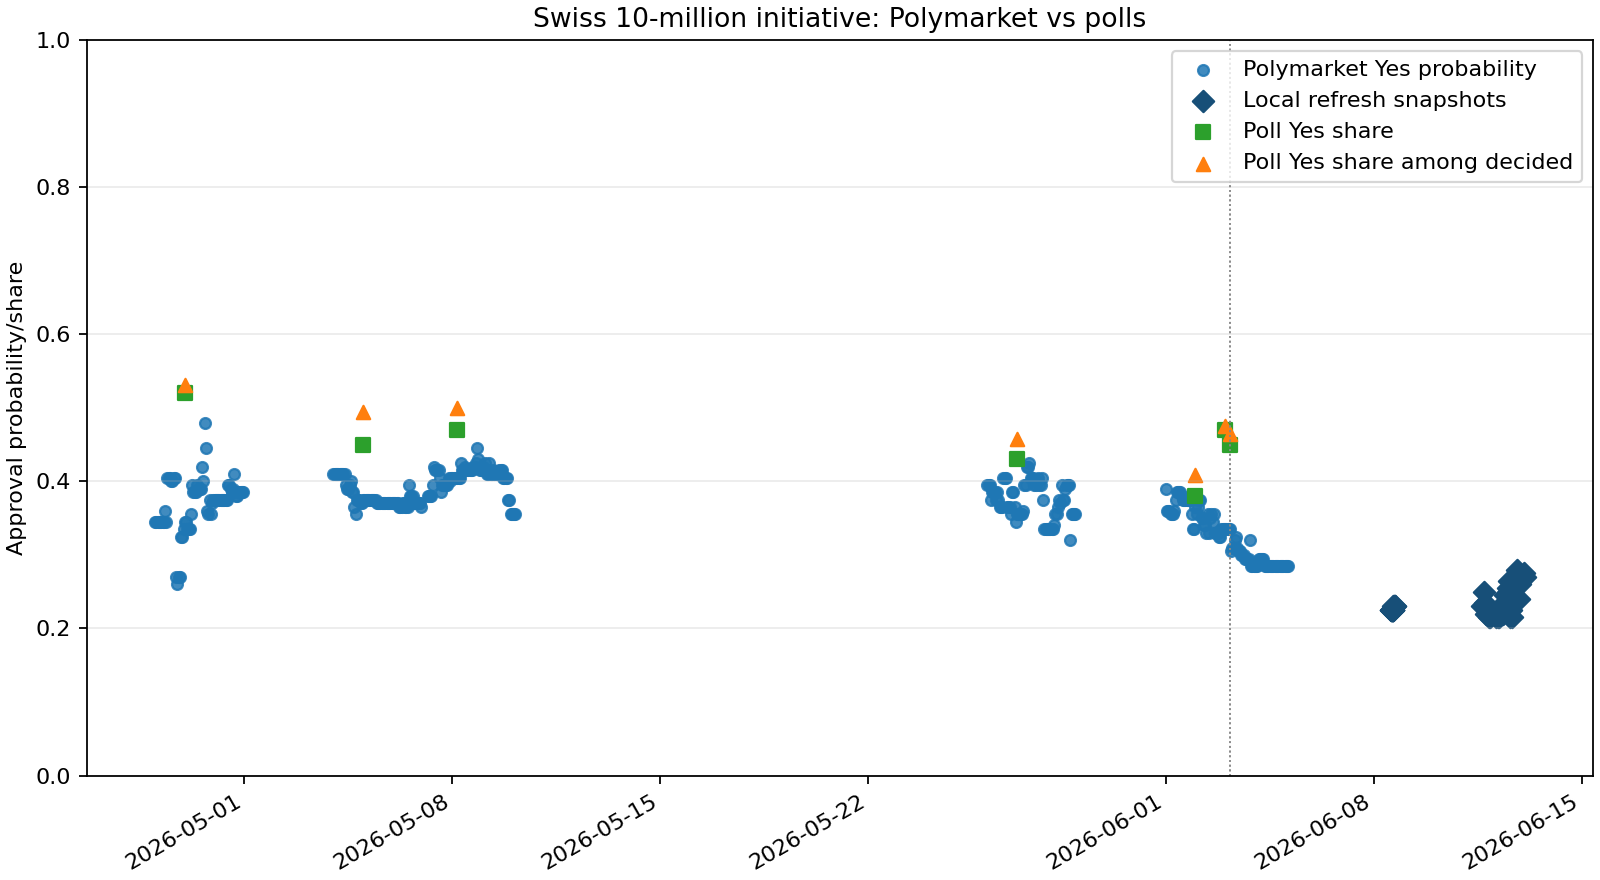
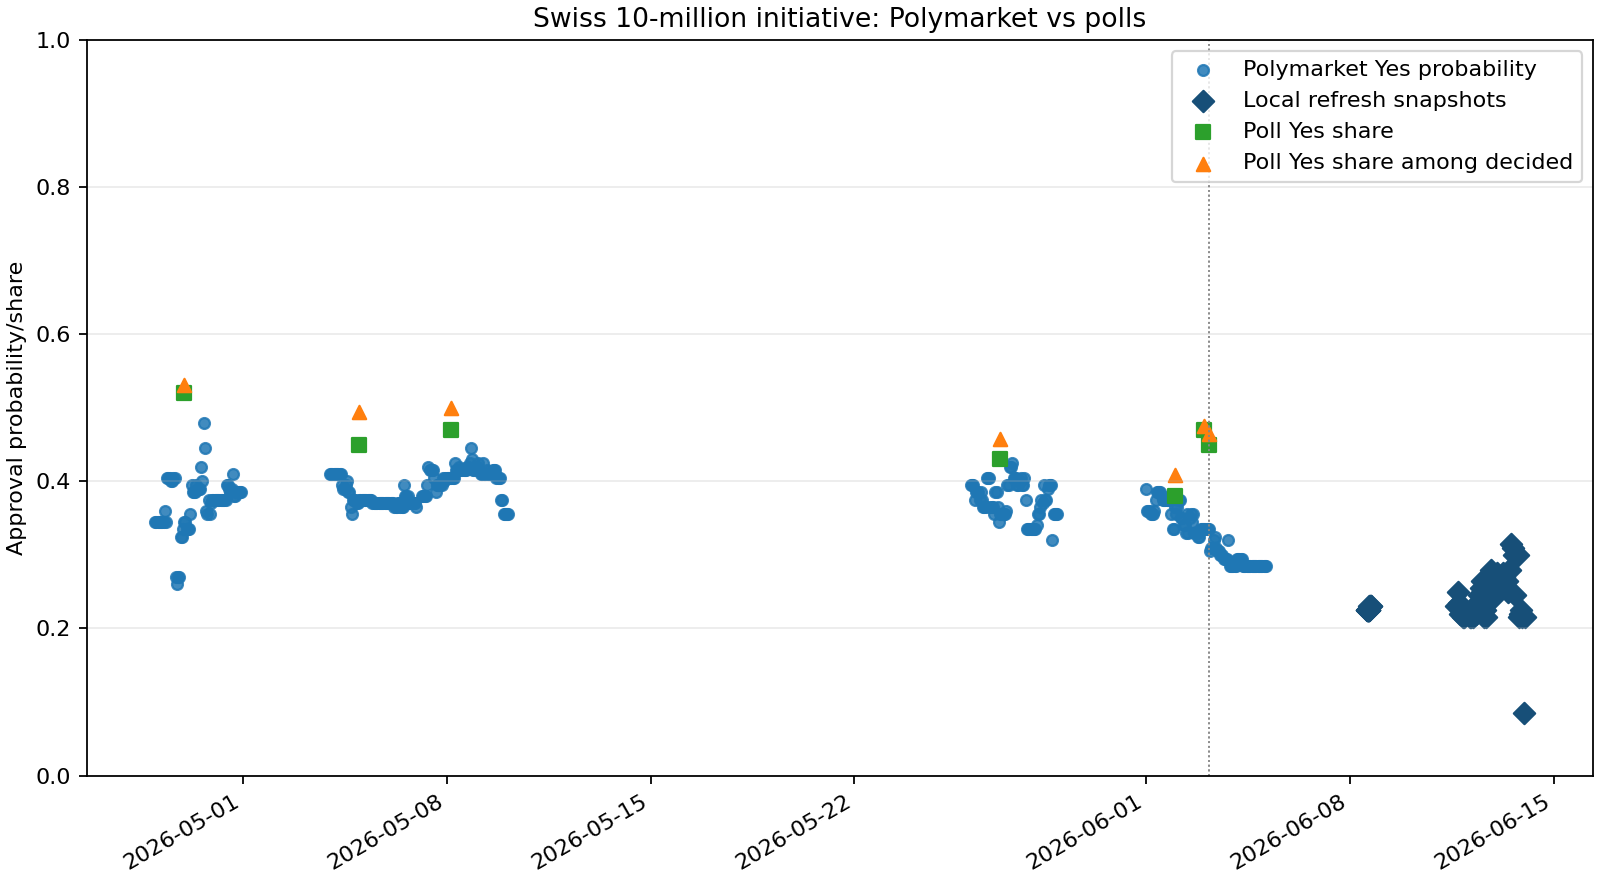
data: update swiss referendum auto refresh snapshot

diff --git a/data/results/swiss_referendum_10mio_dashboard.html b/data/results/swiss_referendum_10mio_dashboard.html
@@ -21,15 +21,15 @@
   <h1>Swiss 10-Million Referendum Efficiency View</h1>
   <p class="note">Read-only deterministic comparison. Poll shares are survey shares, not model-implied win probabilities. Divergence labels are descriptive and make no causal, trading, or profitability claim.</p>
   <section class="metrics">
-    <div class="metric">Snapshots<strong>52</strong></div>
+    <div class="metric">Snapshots<strong>74</strong></div>
     <div class="metric">Polls<strong>7</strong></div>
-    <div class="metric">Latest Polymarket Yes<strong>27.0%</strong></div>
+    <div class="metric">Latest Polymarket Yes<strong>21.5%</strong></div>
     <div class="metric">Latest poll comparison<strong>45.0% raw Yes, 46.4% decided Yes</strong></div>
-    <div class="metric">Raw Yes gap<strong>-18.0 pp</strong></div>
-    <div class="metric">Decided Yes gap<strong>-19.4 pp</strong></div>
+    <div class="metric">Raw Yes gap<strong>-23.5 pp</strong></div>
+    <div class="metric">Decided Yes gap<strong>-24.9 pp</strong></div>
     <div class="metric">Label<strong>polymarket_below_poll_yes_share</strong></div>
     <div class="metric">Poll proxy relation<strong>below_poll_proxy</strong></div>
-    <div class="metric compact">Latest local snapshot<strong>2026-06-13T02:04:17Z</strong></div>
+    <div class="metric compact">Latest local snapshot<strong>2026-06-14T00:04:17Z</strong></div>
     <div class="metric compact">Latest matched poll<strong>srg_gfs_bern_2026_w2</strong></div>
     <div class="metric compact">Matched poll published<strong>2026-06-03T03:55:00Z</strong></div>
     <div class="metric compact">Refresh mode<strong>manual bounded refresh</strong></div>
@@ -44,34 +44,34 @@
   <h2>Comparison Rows</h2>
   <table>
     <thead><tr><th>Snapshot</th><th>Polymarket Yes</th><th>Poll</th><th>Poll Yes</th><th>Poll decided Yes</th><th>Raw gap</th><th>Decided gap</th><th>Label</th><th>Poll proxy relation</th></tr></thead>
-    <tbody><tr><td>2026-06-12T06:04:17Z</td><td>0.220</td><td>srg_gfs_bern_2026_w2</td><td>0.450</td><td>0.464</td><td>-0.230</td><td>-0.244</td><td>polymarket_below_poll_yes_share</td><td>below_poll_proxy</td></tr>
-<tr><td>2026-06-12T07:04:17Z</td><td>0.220</td><td>srg_gfs_bern_2026_w2</td><td>0.450</td><td>0.464</td><td>-0.230</td><td>-0.244</td><td>polymarket_below_poll_yes_share</td><td>below_poll_proxy</td></tr>
-<tr><td>2026-06-12T08:04:16Z</td><td>0.220</td><td>srg_gfs_bern_2026_w2</td><td>0.450</td><td>0.464</td><td>-0.230</td><td>-0.244</td><td>polymarket_below_poll_yes_share</td><td>below_poll_proxy</td></tr>
-<tr><td>2026-06-12T09:04:18Z</td><td>0.235</td><td>srg_gfs_bern_2026_w2</td><td>0.450</td><td>0.464</td><td>-0.215</td><td>-0.229</td><td>polymarket_below_poll_yes_share</td><td>below_poll_proxy</td></tr>
-<tr><td>2026-06-12T10:04:17Z</td><td>0.245</td><td>srg_gfs_bern_2026_w2</td><td>0.450</td><td>0.464</td><td>-0.205</td><td>-0.219</td><td>polymarket_below_poll_yes_share</td><td>below_poll_proxy</td></tr>
-<tr><td>2026-06-12T11:04:18Z</td><td>0.245</td><td>srg_gfs_bern_2026_w2</td><td>0.450</td><td>0.464</td><td>-0.205</td><td>-0.219</td><td>polymarket_below_poll_yes_share</td><td>below_poll_proxy</td></tr>
-<tr><td>2026-06-12T12:04:17Z</td><td>0.255</td><td>srg_gfs_bern_2026_w2</td><td>0.450</td><td>0.464</td><td>-0.195</td><td>-0.209</td><td>polymarket_below_poll_yes_share</td><td>below_poll_proxy</td></tr>
-<tr><td>2026-06-12T13:04:17Z</td><td>0.265</td><td>srg_gfs_bern_2026_w2</td><td>0.450</td><td>0.464</td><td>-0.185</td><td>-0.199</td><td>polymarket_below_poll_yes_share</td><td>below_poll_proxy</td></tr>
-<tr><td>2026-06-12T14:04:19Z</td><td>0.215</td><td>srg_gfs_bern_2026_w2</td><td>0.450</td><td>0.464</td><td>-0.235</td><td>-0.249</td><td>polymarket_below_poll_yes_share</td><td>below_poll_proxy</td></tr>
-<tr><td>2026-06-12T15:04:18Z</td><td>0.225</td><td>srg_gfs_bern_2026_w2</td><td>0.450</td><td>0.464</td><td>-0.225</td><td>-0.239</td><td>polymarket_below_poll_yes_share</td><td>below_poll_proxy</td></tr>
-<tr><td>2026-06-12T16:04:17Z</td><td>0.215</td><td>srg_gfs_bern_2026_w2</td><td>0.450</td><td>0.464</td><td>-0.235</td><td>-0.249</td><td>polymarket_below_poll_yes_share</td><td>below_poll_proxy</td></tr>
-<tr><td>2026-06-12T18:04:17Z</td><td>0.270</td><td>srg_gfs_bern_2026_w2</td><td>0.450</td><td>0.464</td><td>-0.180</td><td>-0.194</td><td>polymarket_below_poll_yes_share</td><td>below_poll_proxy</td></tr>
-<tr><td>2026-06-12T19:04:17Z</td><td>0.265</td><td>srg_gfs_bern_2026_w2</td><td>0.450</td><td>0.464</td><td>-0.185</td><td>-0.199</td><td>polymarket_below_poll_yes_share</td><td>below_poll_proxy</td></tr>
-<tr><td>2026-06-12T20:04:19Z</td><td>0.280</td><td>srg_gfs_bern_2026_w2</td><td>0.450</td><td>0.464</td><td>-0.170</td><td>-0.184</td><td>polymarket_below_poll_yes_share</td><td>below_poll_proxy</td></tr>
-<tr><td>2026-06-12T21:04:21Z</td><td>0.240</td><td>srg_gfs_bern_2026_w2</td><td>0.450</td><td>0.464</td><td>-0.210</td><td>-0.224</td><td>polymarket_below_poll_yes_share</td><td>below_poll_proxy</td></tr>
-<tr><td>2026-06-12T22:04:18Z</td><td>0.260</td><td>srg_gfs_bern_2026_w2</td><td>0.450</td><td>0.464</td><td>-0.190</td><td>-0.204</td><td>polymarket_below_poll_yes_share</td><td>below_poll_proxy</td></tr>
-<tr><td>2026-06-12T23:04:17Z</td><td>0.270</td><td>srg_gfs_bern_2026_w2</td><td>0.450</td><td>0.464</td><td>-0.180</td><td>-0.194</td><td>polymarket_below_poll_yes_share</td><td>below_poll_proxy</td></tr>
-<tr><td>2026-06-13T00:04:17Z</td><td>0.270</td><td>srg_gfs_bern_2026_w2</td><td>0.450</td><td>0.464</td><td>-0.180</td><td>-0.194</td><td>polymarket_below_poll_yes_share</td><td>below_poll_proxy</td></tr>
-<tr><td>2026-06-13T01:04:18Z</td><td>0.275</td><td>srg_gfs_bern_2026_w2</td><td>0.450</td><td>0.464</td><td>-0.175</td><td>-0.189</td><td>polymarket_below_poll_yes_share</td><td>below_poll_proxy</td></tr>
-<tr><td>2026-06-13T02:04:17Z</td><td>0.270</td><td>srg_gfs_bern_2026_w2</td><td>0.450</td><td>0.464</td><td>-0.180</td><td>-0.194</td><td>polymarket_below_poll_yes_share</td><td>below_poll_proxy</td></tr></tbody>
+    <tbody><tr><td>2026-06-13T05:04:18Z</td><td>0.270</td><td>srg_gfs_bern_2026_w2</td><td>0.450</td><td>0.464</td><td>-0.180</td><td>-0.194</td><td>polymarket_below_poll_yes_share</td><td>below_poll_proxy</td></tr>
+<tr><td>2026-06-13T06:04:21Z</td><td>0.275</td><td>srg_gfs_bern_2026_w2</td><td>0.450</td><td>0.464</td><td>-0.175</td><td>-0.189</td><td>polymarket_below_poll_yes_share</td><td>below_poll_proxy</td></tr>
+<tr><td>2026-06-13T07:04:20Z</td><td>0.270</td><td>srg_gfs_bern_2026_w2</td><td>0.450</td><td>0.464</td><td>-0.180</td><td>-0.194</td><td>polymarket_below_poll_yes_share</td><td>below_poll_proxy</td></tr>
+<tr><td>2026-06-13T08:04:18Z</td><td>0.265</td><td>srg_gfs_bern_2026_w2</td><td>0.450</td><td>0.464</td><td>-0.185</td><td>-0.199</td><td>polymarket_below_poll_yes_share</td><td>below_poll_proxy</td></tr>
+<tr><td>2026-06-13T09:04:20Z</td><td>0.265</td><td>srg_gfs_bern_2026_w2</td><td>0.450</td><td>0.464</td><td>-0.185</td><td>-0.199</td><td>polymarket_below_poll_yes_share</td><td>below_poll_proxy</td></tr>
+<tr><td>2026-06-13T10:04:17Z</td><td>0.250</td><td>srg_gfs_bern_2026_w2</td><td>0.450</td><td>0.464</td><td>-0.200</td><td>-0.214</td><td>polymarket_below_poll_yes_share</td><td>below_poll_proxy</td></tr>
+<tr><td>2026-06-13T11:04:18Z</td><td>0.280</td><td>srg_gfs_bern_2026_w2</td><td>0.450</td><td>0.464</td><td>-0.170</td><td>-0.184</td><td>polymarket_below_poll_yes_share</td><td>below_poll_proxy</td></tr>
+<tr><td>2026-06-13T12:04:18Z</td><td>0.280</td><td>srg_gfs_bern_2026_w2</td><td>0.450</td><td>0.464</td><td>-0.170</td><td>-0.184</td><td>polymarket_below_poll_yes_share</td><td>below_poll_proxy</td></tr>
+<tr><td>2026-06-13T13:04:20Z</td><td>0.315</td><td>srg_gfs_bern_2026_w2</td><td>0.450</td><td>0.464</td><td>-0.135</td><td>-0.149</td><td>polymarket_below_poll_yes_share</td><td>below_poll_proxy</td></tr>
+<tr><td>2026-06-13T14:04:19Z</td><td>0.310</td><td>srg_gfs_bern_2026_w2</td><td>0.450</td><td>0.464</td><td>-0.140</td><td>-0.154</td><td>polymarket_below_poll_yes_share</td><td>below_poll_proxy</td></tr>
+<tr><td>2026-06-13T15:04:18Z</td><td>0.300</td><td>srg_gfs_bern_2026_w2</td><td>0.450</td><td>0.464</td><td>-0.150</td><td>-0.164</td><td>polymarket_below_poll_yes_share</td><td>below_poll_proxy</td></tr>
+<tr><td>2026-06-13T16:04:17Z</td><td>0.245</td><td>srg_gfs_bern_2026_w2</td><td>0.450</td><td>0.464</td><td>-0.205</td><td>-0.219</td><td>polymarket_below_poll_yes_share</td><td>below_poll_proxy</td></tr>
+<tr><td>2026-06-13T17:04:20Z</td><td>0.300</td><td>srg_gfs_bern_2026_w2</td><td>0.450</td><td>0.464</td><td>-0.150</td><td>-0.164</td><td>polymarket_below_poll_yes_share</td><td>below_poll_proxy</td></tr>
+<tr><td>2026-06-13T18:04:17Z</td><td>0.300</td><td>srg_gfs_bern_2026_w2</td><td>0.450</td><td>0.464</td><td>-0.150</td><td>-0.164</td><td>polymarket_below_poll_yes_share</td><td>below_poll_proxy</td></tr>
+<tr><td>2026-06-13T19:04:19Z</td><td>0.215</td><td>srg_gfs_bern_2026_w2</td><td>0.450</td><td>0.464</td><td>-0.235</td><td>-0.249</td><td>polymarket_below_poll_yes_share</td><td>below_poll_proxy</td></tr>
+<tr><td>2026-06-13T20:04:17Z</td><td>0.220</td><td>srg_gfs_bern_2026_w2</td><td>0.450</td><td>0.464</td><td>-0.230</td><td>-0.244</td><td>polymarket_below_poll_yes_share</td><td>below_poll_proxy</td></tr>
+<tr><td>2026-06-13T21:04:17Z</td><td>0.225</td><td>srg_gfs_bern_2026_w2</td><td>0.450</td><td>0.464</td><td>-0.225</td><td>-0.239</td><td>polymarket_below_poll_yes_share</td><td>below_poll_proxy</td></tr>
+<tr><td>2026-06-13T22:04:19Z</td><td>0.215</td><td>srg_gfs_bern_2026_w2</td><td>0.450</td><td>0.464</td><td>-0.235</td><td>-0.249</td><td>polymarket_below_poll_yes_share</td><td>below_poll_proxy</td></tr>
+<tr><td>2026-06-13T23:04:22Z</td><td>0.085</td><td>srg_gfs_bern_2026_w2</td><td>0.450</td><td>0.464</td><td>-0.365</td><td>-0.379</td><td>polymarket_below_poll_yes_share</td><td>below_poll_proxy</td></tr>
+<tr><td>2026-06-14T00:04:17Z</td><td>0.215</td><td>srg_gfs_bern_2026_w2</td><td>0.450</td><td>0.464</td><td>-0.235</td><td>-0.249</td><td>polymarket_below_poll_yes_share</td><td>below_poll_proxy</td></tr></tbody>
   </table>
   <h2>Latest Poll-Source Comparison</h2>
   <p class="note">This table compares the latest local Polymarket snapshot with the newest prior poll from each curated poll source. It is a cross-source poll-proxy view, not a model average or mispricing test.</p>
   <table>
     <thead><tr><th>Source</th><th>Poll</th><th>Published</th><th>Polymarket Yes</th><th>Poll Yes</th><th>Poll decided Yes</th><th>Raw gap</th><th>Decided gap</th><th>Poll proxy relation</th></tr></thead>
-    <tbody><tr><td>SRG/gfs.bern</td><td>srg_gfs_bern_2026_w2</td><td>2026-06-03T03:55:00Z</td><td>0.270</td><td>0.450</td><td>0.464</td><td>-0.180</td><td>-0.194</td><td>below_poll_proxy</td></tr>
-<tr><td>Tamedia/20 Minuten/LeeWas</td><td>tamedia_leewas_2026_w2</td><td>2026-06-03T00:00:00Z</td><td>0.270</td><td>0.470</td><td>0.475</td><td>-0.200</td><td>-0.205</td><td>below_poll_proxy</td></tr>
-<tr><td>YouGov Schweiz</td><td>yougov_2026_w2_final</td><td>2026-06-02T00:00:00Z</td><td>0.270</td><td>0.380</td><td>0.409</td><td>-0.110</td><td>-0.139</td><td>below_poll_proxy</td></tr></tbody>
+    <tbody><tr><td>SRG/gfs.bern</td><td>srg_gfs_bern_2026_w2</td><td>2026-06-03T03:55:00Z</td><td>0.215</td><td>0.450</td><td>0.464</td><td>-0.235</td><td>-0.249</td><td>below_poll_proxy</td></tr>
+<tr><td>Tamedia/20 Minuten/LeeWas</td><td>tamedia_leewas_2026_w2</td><td>2026-06-03T00:00:00Z</td><td>0.215</td><td>0.470</td><td>0.475</td><td>-0.255</td><td>-0.260</td><td>below_poll_proxy</td></tr>
+<tr><td>YouGov Schweiz</td><td>yougov_2026_w2_final</td><td>2026-06-02T00:00:00Z</td><td>0.215</td><td>0.380</td><td>0.409</td><td>-0.165</td><td>-0.194</td><td>below_poll_proxy</td></tr></tbody>
   </table>
   <h2>Poll Release Impact Checks</h2>
   <p class="note">Impact rows require at least one local Polymarket observation before and after the poll publication time. Observations can come from bounded snapshots or bounded public CLOB price-history windows.</p>

diff --git a/data/results/swiss_referendum_10mio_latest_summary.md b/data/results/swiss_referendum_10mio_latest_summary.md
@@ -2,8 +2,8 @@
 
 ## Generated Or Inspected
 
-- Comparison rows: 52.
-- Polymarket snapshot rows: 52.
+- Comparison rows: 74.
+- Polymarket snapshot rows: 74.
 - Bounded price-history rows: 504.
 - Curated poll rows: 7 from SRG/gfs.bern, Tamedia/20 Minuten/LeeWas, YouGov Schweiz.
 - Poll-impact rows: 7 (observed_pre_post: 7).
@@ -25,9 +25,9 @@
 
 ## Latest Poll-Source Comparison
 
-- SRG/gfs.bern: srg_gfs_bern_2026_w2 published 2026-06-03T03:55:00Z; poll Yes 45.0%, decided Yes 46.4%, raw gap -18.0 pp, decided gap -19.4 pp; below_poll_proxy.
-- Tamedia/20 Minuten/LeeWas: tamedia_leewas_2026_w2 published 2026-06-03T00:00:00Z; poll Yes 47.0%, decided Yes 47.5%, raw gap -20.0 pp, decided gap -20.5 pp; below_poll_proxy.
-- YouGov Schweiz: yougov_2026_w2_final published 2026-06-02T00:00:00Z; poll Yes 38.0%, decided Yes 40.9%, raw gap -11.0 pp, decided gap -13.9 pp; below_poll_proxy.
+- SRG/gfs.bern: srg_gfs_bern_2026_w2 published 2026-06-03T03:55:00Z; poll Yes 45.0%, decided Yes 46.4%, raw gap -23.5 pp, decided gap -24.9 pp; below_poll_proxy.
+- Tamedia/20 Minuten/LeeWas: tamedia_leewas_2026_w2 published 2026-06-03T00:00:00Z; poll Yes 47.0%, decided Yes 47.5%, raw gap -25.5 pp, decided gap -26.0 pp; below_poll_proxy.
+- YouGov Schweiz: yougov_2026_w2_final published 2026-06-02T00:00:00Z; poll Yes 38.0%, decided Yes 40.9%, raw gap -16.5 pp, decided gap -19.4 pp; below_poll_proxy.
 
 ## Information Response Summary
 
@@ -42,13 +42,13 @@
 
 ## Key Numerical Result
 
-- Latest snapshot: 2026-06-13T02:04:17Z.
+- Latest snapshot: 2026-06-14T00:04:17Z.
 - Latest matched poll: srg_gfs_bern_2026_w2 (SRG/gfs.bern).
-- Polymarket Yes probability: 27.0%.
+- Polymarket Yes probability: 21.5%.
 - Latest poll Yes share: 45.0%.
 - Latest poll decided Yes share: 46.4%.
-- Raw Yes gap: -18.0 pp.
-- Decided Yes gap: -19.4 pp.
+- Raw Yes gap: -23.5 pp.
+- Decided Yes gap: -24.9 pp.
 - Poll-proxy relation: below_poll_proxy.
 
 ## Bounded Interpretation
